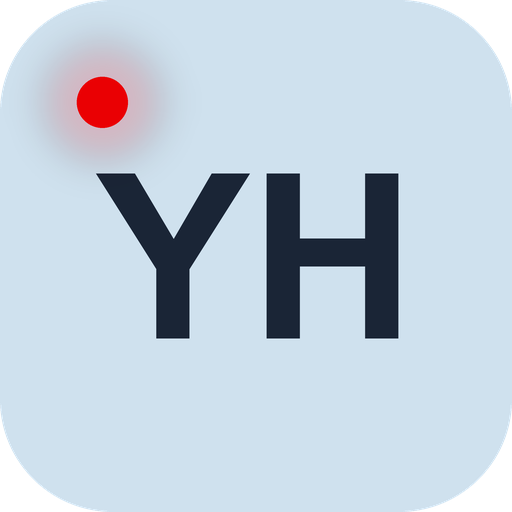
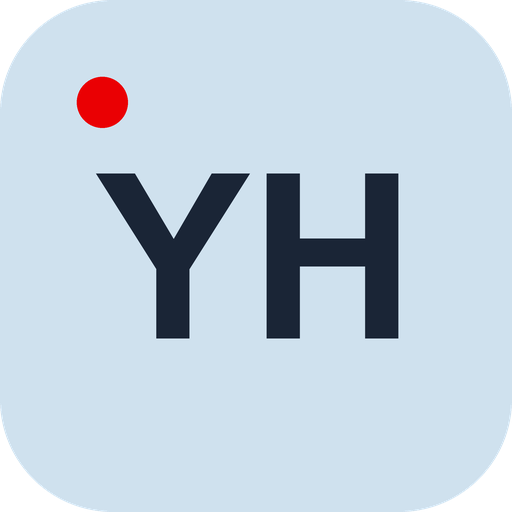
Drop glow halo from accent dot — solid only
The blur halo was a 4× supersampled gaussian and ate render time for a
visual that was already barely registering at 24/32px. Strip it and
keep just the solid red dot in the top-left corner; the brand reference
to the wand-tip is still readable without the glow. Removes the
ImageFilter import and the DOT_GLOW_RATIO constant; render_icon is now
a single composite pass.

Younhyun icons + listing.png regenerated; RBZ rebuilt.

Changed region(s): [[0.0938, 0.0938, 0.3125, 0.3125]]

diff --git a/extensions/make_icon.py b/extensions/make_icon.py
@@ -19,7 +19,7 @@ import argparse
 import sys
 from pathlib import Path
 
-from PIL import Image, ImageDraw, ImageFilter, ImageFont
+from PIL import Image, ImageDraw, ImageFont
 
 
 # ── Style defaults — edit here for a different baseline ─────────────────
@@ -30,7 +30,6 @@ RADIUS_RATIO = 0.22           # corner radius as fraction of size
 TEXT_SCALE = 0.45             # font size as fraction of icon size — keep some breathing room around letters
 DOT_SIZE_RATIO = 0.10         # accent dot diameter as fraction of size
 DOT_OFFSET_RATIO = 0.20       # dot center offset from top-left (fraction of size)
-DOT_GLOW_RATIO = 2.4          # glow diameter relative to dot diameter
 SIZES = (24, 32)              # SketchUp toolbar small / large modes
 LISTING_SIZE = 512            # high-res render for homepage / EW listing thumbnails
 
@@ -81,21 +80,11 @@ def render_icon(letters: str, size: int, bg: str, fg: str, accent: str = DEFAULT
     y = (canvas - text_h) // 2 - bbox[1]
     draw.text((x, y), letters, font=font, fill=fg)
 
-    # Brand accent dot in the top-left corner — soft glow halo + bright core,
-    # echoing the lit wand-tip on the Black Magician icon.
+    # Brand accent dot in the top-left corner — solid, no glow.
     cx = int(canvas * DOT_OFFSET_RATIO)
     cy = int(canvas * DOT_OFFSET_RATIO)
     dot_d = int(canvas * DOT_SIZE_RATIO)
-    glow_d = int(dot_d * DOT_GLOW_RATIO)
-
-    glow = Image.new("RGBA", (canvas, canvas), (0, 0, 0, 0))
-    ImageDraw.Draw(glow).ellipse(
-        (cx - glow_d // 2, cy - glow_d // 2, cx + glow_d // 2, cy + glow_d // 2),
-        fill=accent + "30",
-    )
-    glow = glow.filter(ImageFilter.GaussianBlur(radius=int(canvas * 0.035)))
-    img = Image.alpha_composite(img, glow)
-    ImageDraw.Draw(img).ellipse(
+    draw.ellipse(
         (cx - dot_d // 2, cy - dot_d // 2, cx + dot_d // 2, cy + dot_d // 2),
         fill=accent,
     )
